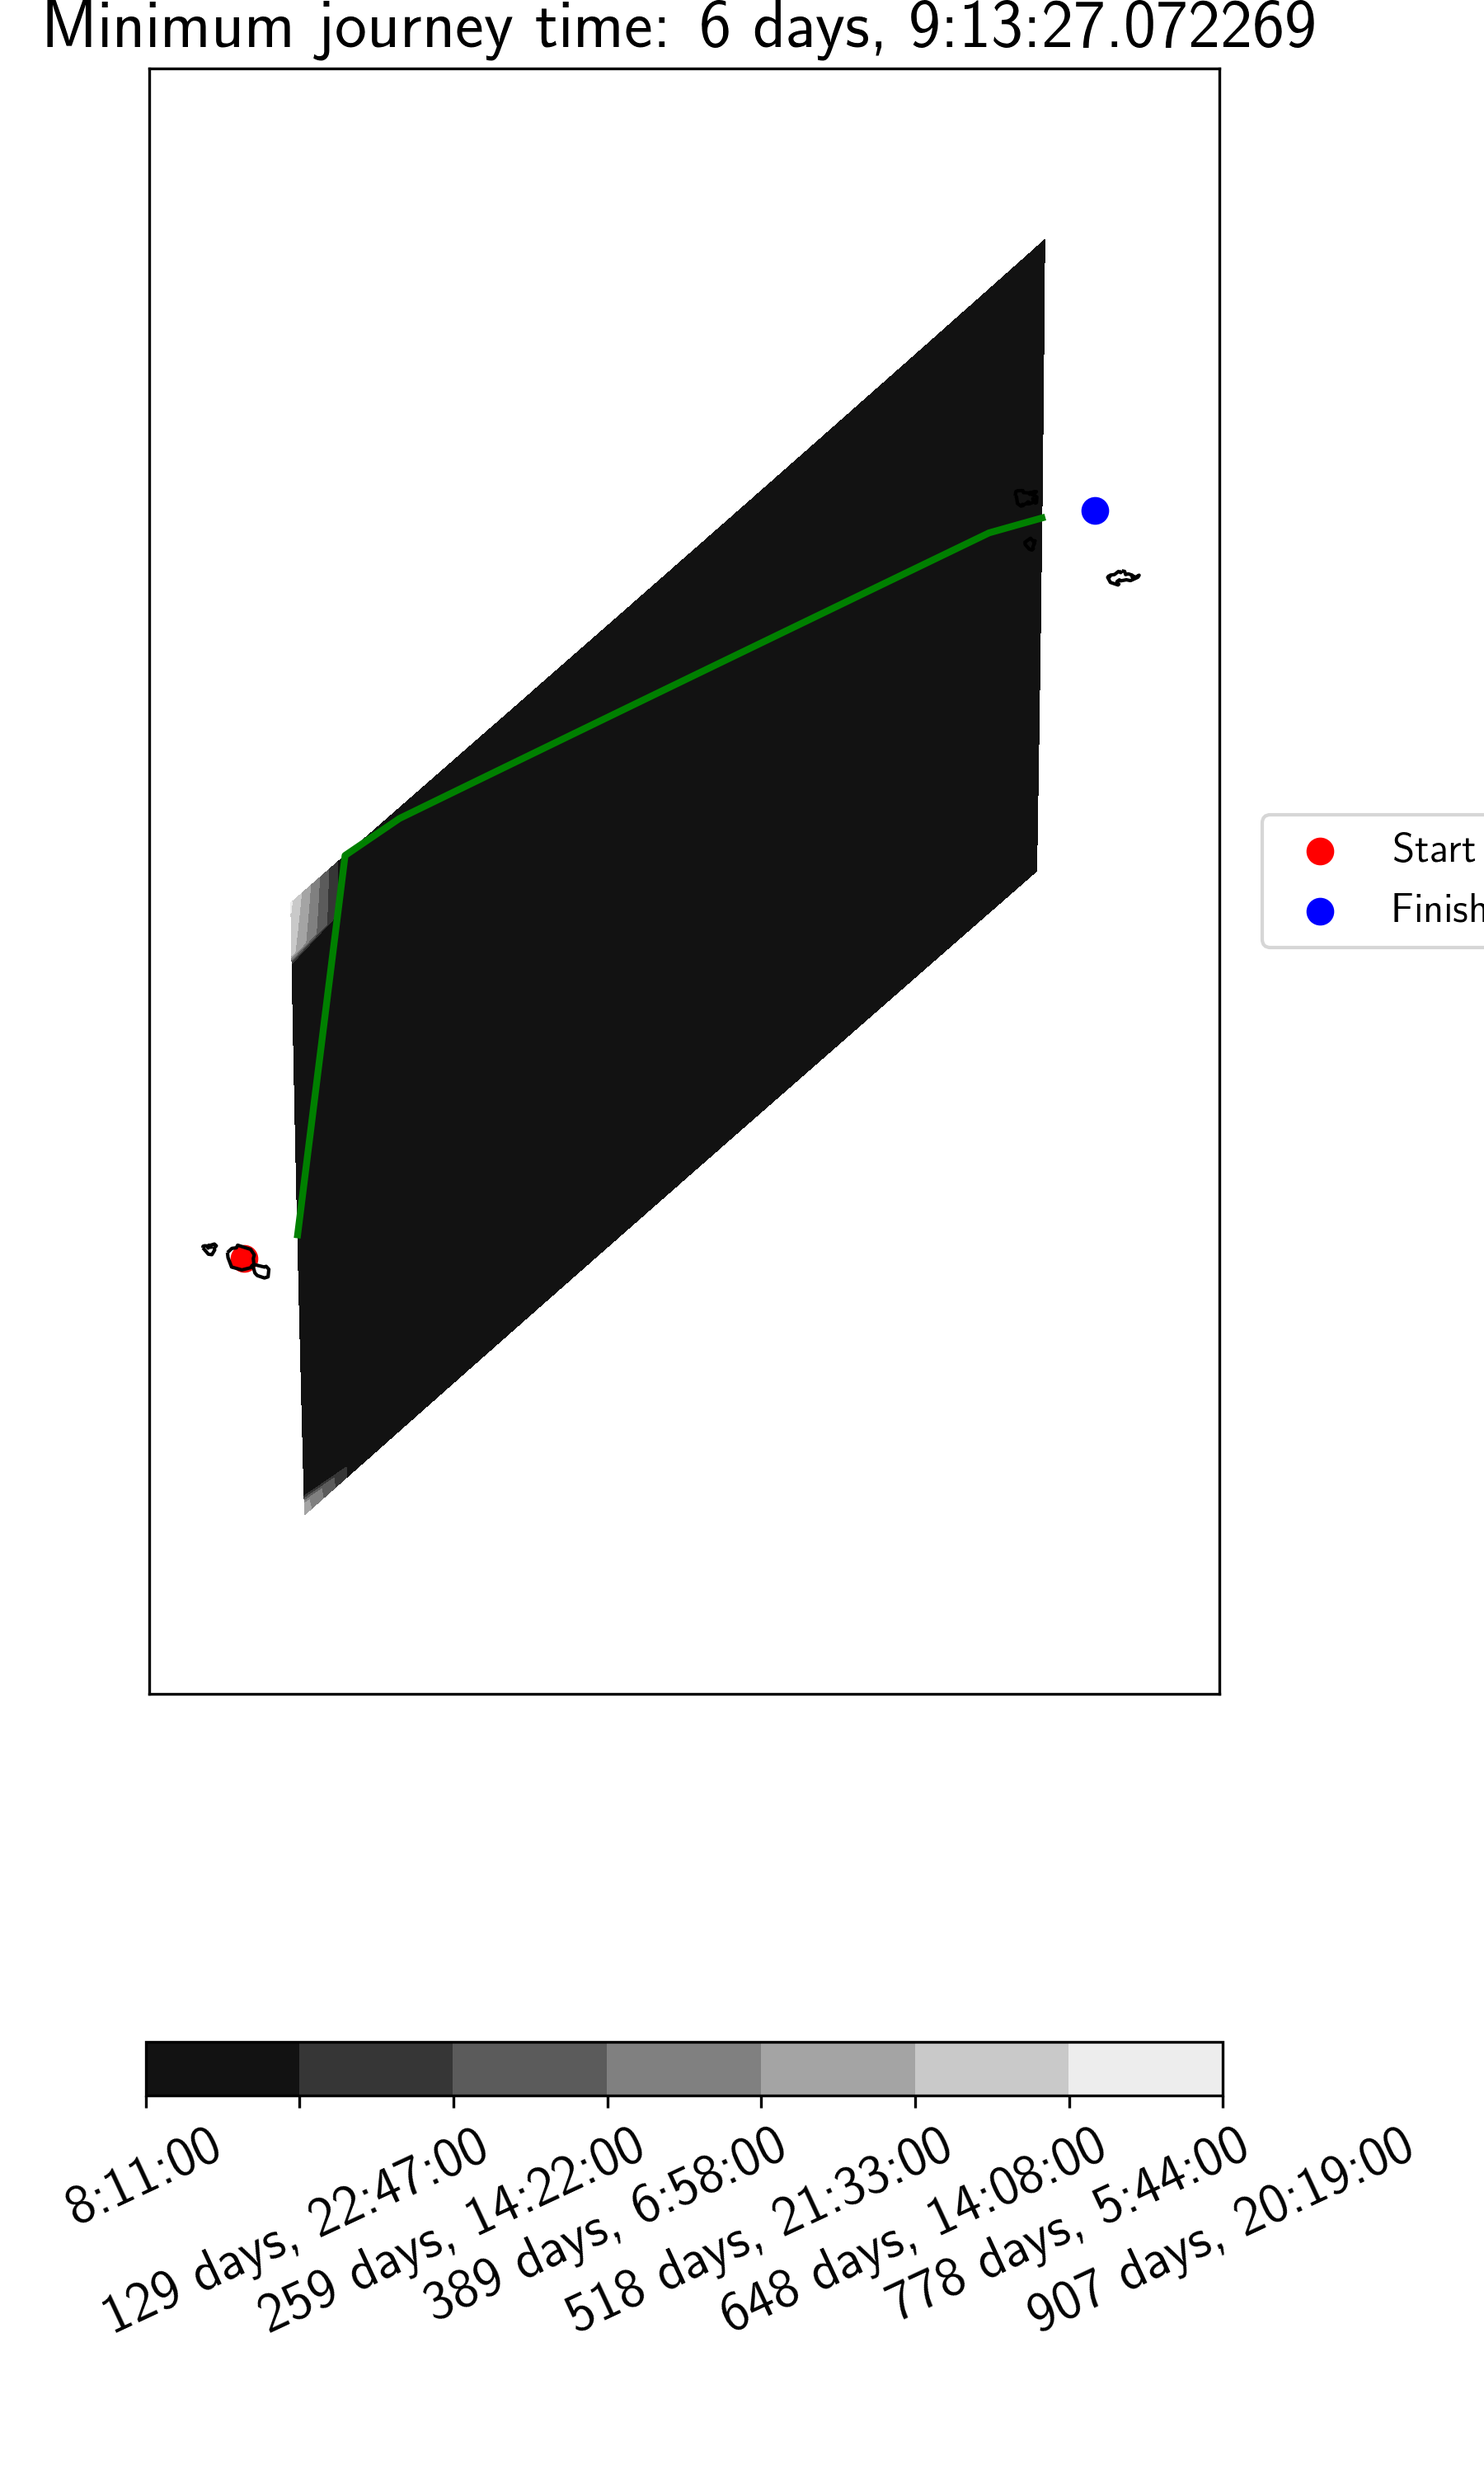
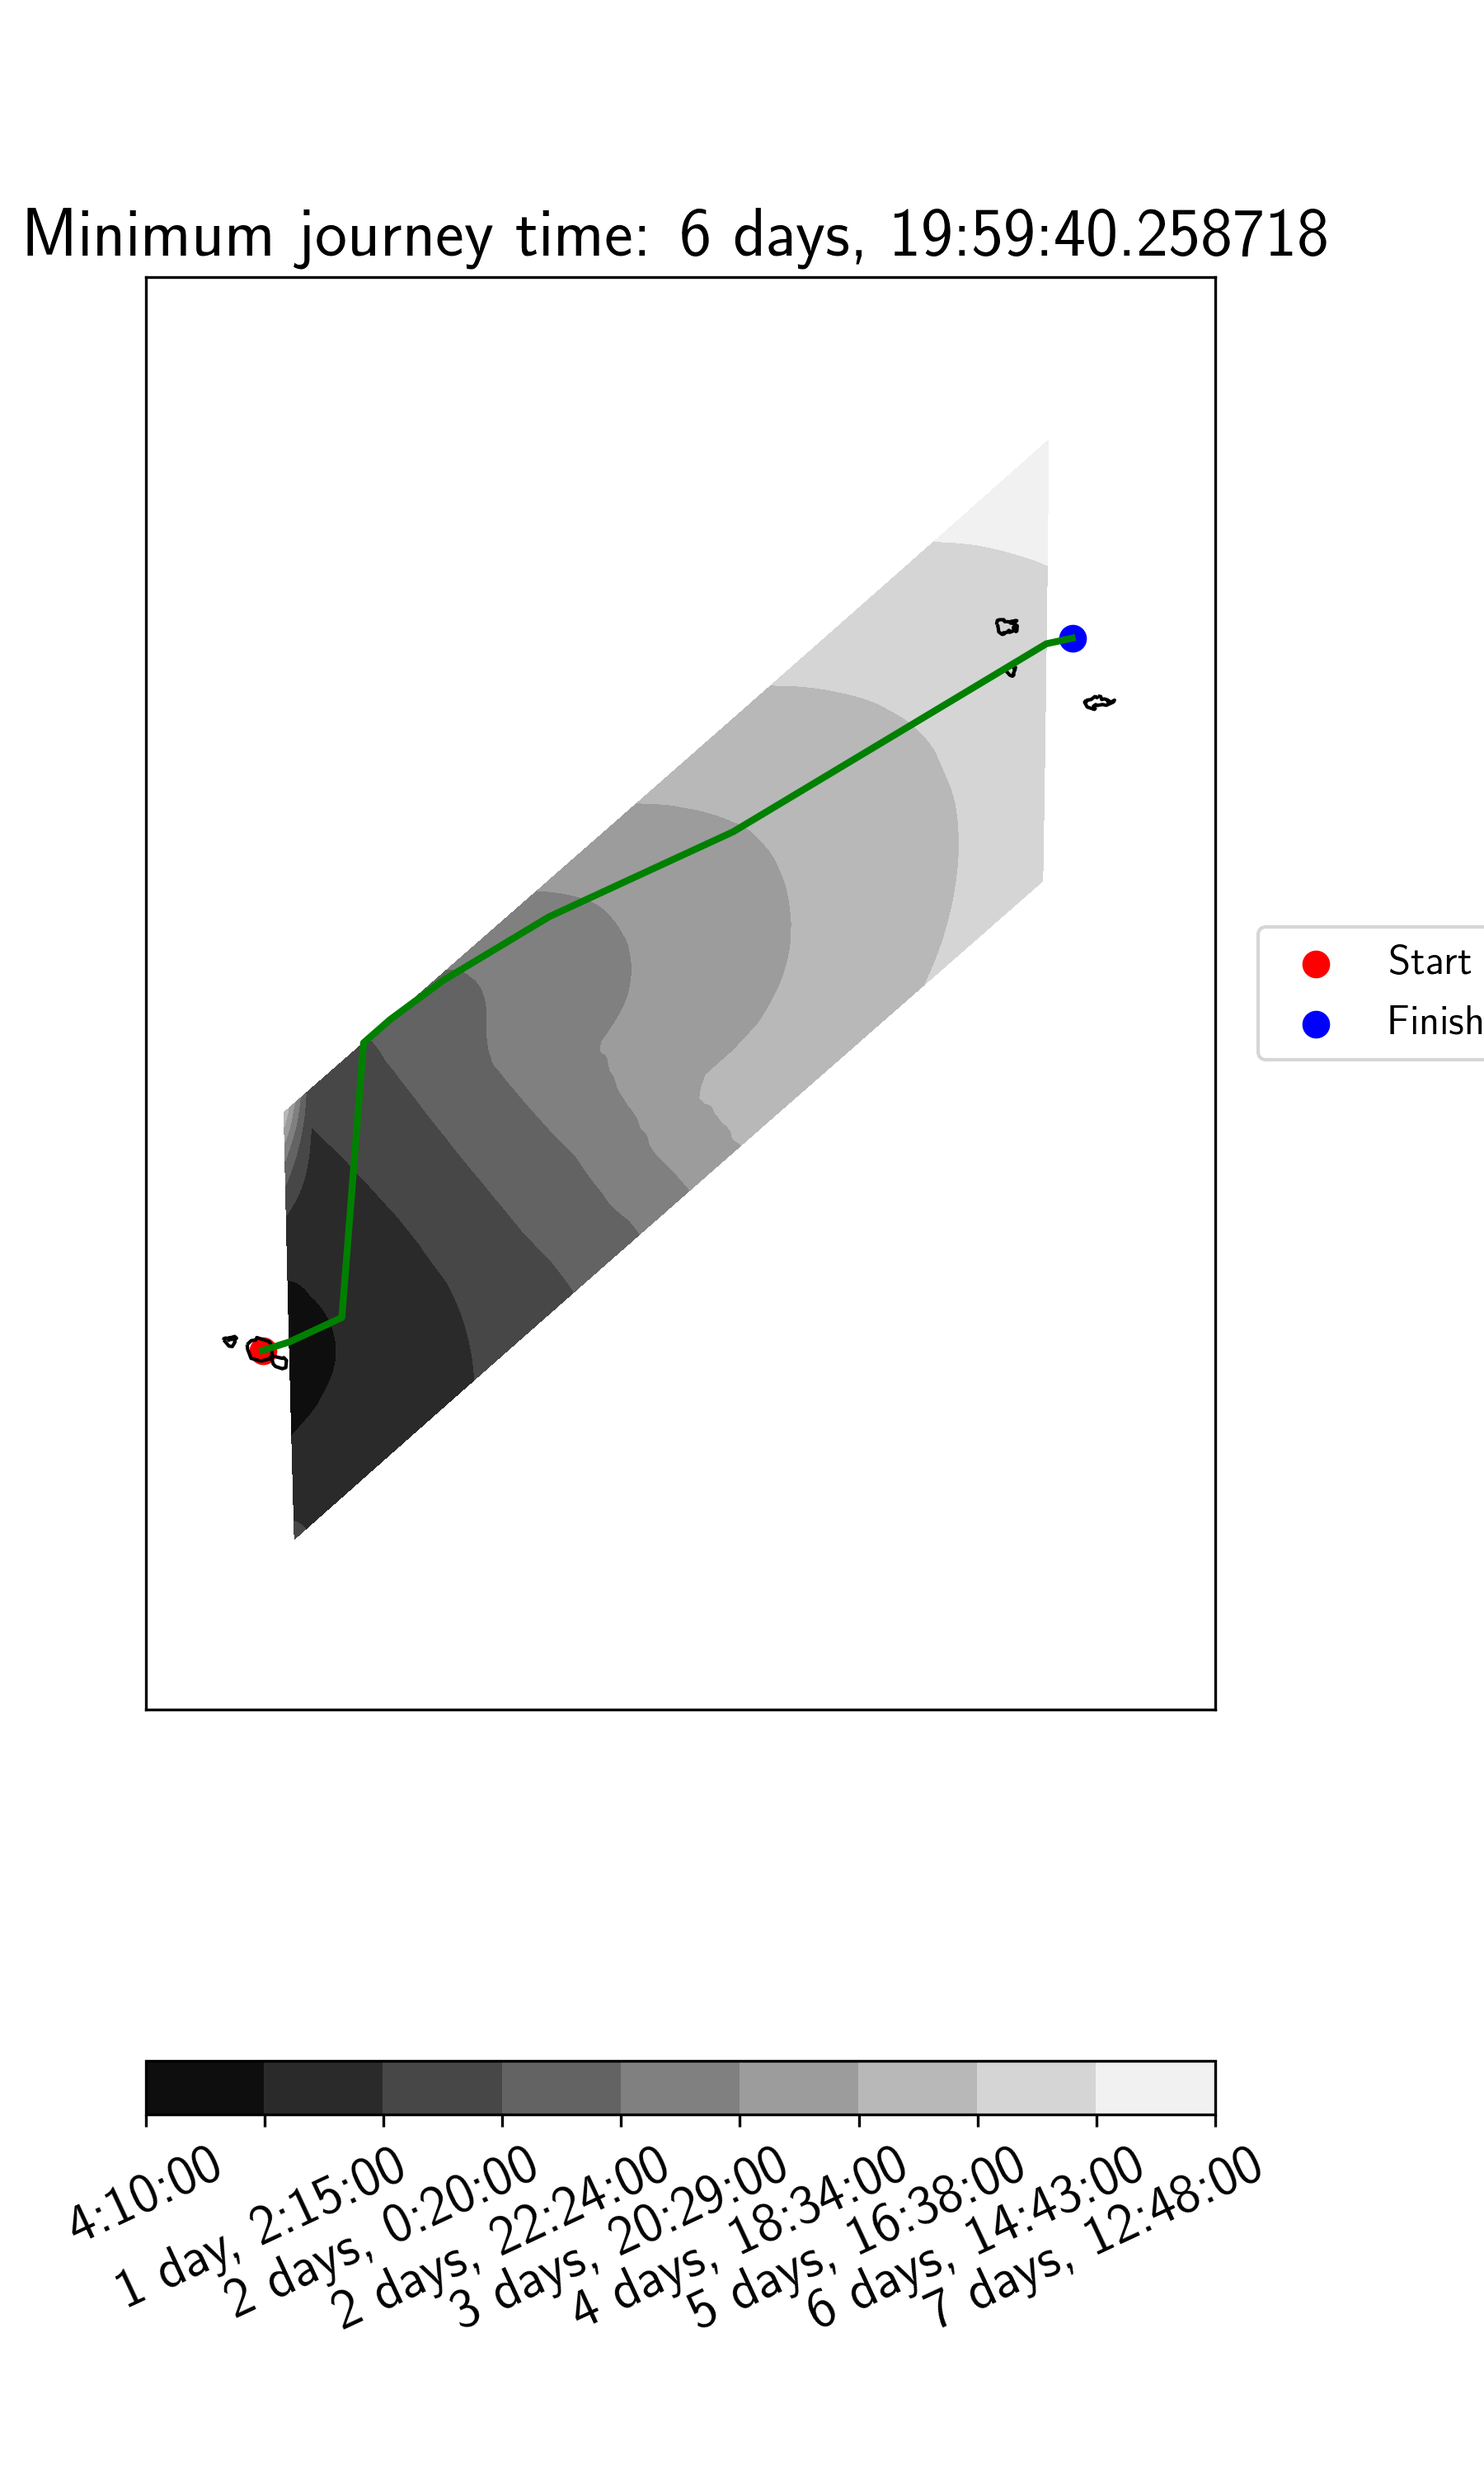
create utils for canoe voyaging

diff --git a/analysis/canoe_voyaging.py b/analysis/canoe_voyaging.py
@@ -6,63 +6,31 @@ thomas.dickson@soton.ac.uk
 """
 from context import sail_route
 import numpy as np
-from datetime import datetime, timedelta
-from sail_route.weather.weather_assistance import plot_wind_data, \
-                                                  generate_gif, \
-                                                  return_domain
+from datetime import datetime
+from canoe_voyaging_util import datetime_range, load_tongiaki_perf
+from sail_route.weather.weather_assistance import return_domain
 from sail_route.sail_routing import Location, Route, \
                                    min_time_calculate, plot_mt_route, \
                                    plot_reliability_route
-from sail_route.performance.craft_performance import polar
 from sail_route.performance.cost_function import haversine
 from sail_route.route.grid_locations import return_co_ords
-from sail_route.route.solve_route import shortest_path
 from grid_error import calc_h
 
 
-def datetime_range(start, end, delta):
-    """Generate range of dates."""
-    current = start
-    if not isinstance(delta, timedelta):
-        delta = timedelta(**delta)
-    while current < end:
-        yield current
-        current += delta
-
-
-def plot_wind():
-    """Plot representative wind scenario."""
-    path = "/home/thomas/Documents/pyroute/analysis/poly_data/data_dir/"
-    plot_wind_data(path, path+"/wind_forecast.nc")
-    generate_gif(path, "Polynesian_July")
-
-
-def load_tongiaki_perf():
-    """Load predicted Tongiaki voyaging canoe performance."""
-    pyroute_path = "/home/thomas/Documents/pyroute/"
-    path = pyroute_path + "analysis/poly_data"
-    perf = np.genfromtxt(pyroute_path+"/analysis/poly_data/data_dir/tongiaki_vpp.csv", delimiter=",")
-    tws = np.array([4, 5, 6, 7, 8, 9, 10, 12, 14, 16, 20])
-    twa = np.array([0, 60, 70, 80, 90, 100, 110, 120])
-    return polar(twa, tws, perf, 0.0)
-
-
 def run_simulation_over_days():
-    "Begin routing simulations"
-    "Start: Tahiti"
-    "Finish: Marquesas"
-    "Tongiaki vpp performance"
+    """Run routing simulations between tahiti and marquesas."""
     tahiti = Location(-149.426, -17.651)
     marquesas = Location(-139.33, -9)
     craft = load_tongiaki_perf()
-    n_nodes = 20
+    n_nodes = 30
     n_width = n_nodes*4
     print("Nodes in rank: ", n_nodes)
     print("Nodes in width: ", n_width)
     dist, bearing = haversine(tahiti.long, tahiti.lat, marquesas.long,
                               marquesas.lat)
-    node_distance = 750*dist/n_width
-    print("Node distance is ", node_distance, " m")
+    node_distance = 550*dist/n_width
+    print("Node height distance is ", dist*1000, " m")
+    print("Node width distance is ", node_distance, " m")
     r = Route(tahiti, marquesas, n_nodes, n_width,
               node_distance, craft)
     pyroute_path = "/home/thomas/Documents/pyroute/"
@@ -70,7 +38,7 @@ def run_simulation_over_days():
     waves_fname = pyroute_path + "analysis/poly_data/data_dir/wave_data.nc"
     dia_path = pyroute_path + "analysis/poly_data"
     sd = datetime(2000, 7, 1, 0, 0)
-    ed = datetime(2000, 7, 2, 0, 0)
+    ed = datetime(2000, 7, 10, 0, 0)
     dt = [d for d in datetime_range(sd, ed, {'days': 1, 'hours': 0})]
     for t in dt:
         x, y, land = return_co_ords(r.start.long, r.finish.long,

diff --git a/sail_route/sail_routing.py b/sail_route/sail_routing.py
@@ -43,7 +43,7 @@ plt.rcParams['lines.linewidth'] = 2.0
 plt.rcParams['lines.markersize'] = 8
 plt.rcParams['legend.fontsize'] = 12
 plt.rcParams['text.usetex'] = True
-# plt.rcParams['font.family'] = "serif"
+plt.rcParams['font.family'] = "serif"
 plt.rcParams['font.serif'] = "cm"
 plt.rcParams['text.latex.preamble'] = """\\usepackage{subdepth},
                                          \\usepackage{type1cm}"""
@@ -73,11 +73,11 @@ class Route:
 
 @timefunc
 def min_time_calculate(route, time, craft, x, y,
-                       land, tws, twd, wd, wh, wp):
+                       land, tws, twd, wd, wh, wp, verb=True):
     """Calculate the earliest arrival time across co-ordinates."""
-    pf_vals = np.zeros_like(x)  # array to hold failure probability
-    earl_time = np.full_like(x, np.inf)  # array to hold earliest times
-    indxs, pindxs = gen_indx(x)  # array to hold indexes of each location
+    pf_vals = np.zeros_like(x)
+    earl_time = np.full_like(x, np.inf)
+    indxs, pindxs = gen_indx(x)
     tws_interp = setup_interpolator(tws)
     twd_interp = setup_interpolator(twd)
     wd_interp = setup_interpolator(wd)
@@ -141,13 +141,7 @@ def min_time_calculate(route, time, craft, x, y,
                             print(stop_r)
                             print("Routing failed. Go sailing another day.")
                             break
-
-    # print(x)
-    # print(y)
-    # print(earl_time)
-    # print(indxs)
-    # print(pindxs)
-    stop_r
+    stop_r = 0
     for i in range(route.n_width):
         time = datetime.fromtimestamp(earl_time[-1, i])
         i_tws = tws_interp([x[-1, i],
@@ -176,7 +170,14 @@ def min_time_calculate(route, time, craft, x, y,
                 break
     sp = shortest_path(indxs, pindxs, [end_node])
     x_route, y_route = get_locs(indxs, sp, x, y)
-    return journey_time, earl_time, pf_vals, x_route, y_route
+    x_route = np.hstack(([route.finish.long], x_route,
+                        [route.start.long]))
+    y_route = np.hstack(([route.finish.lat], y_route,
+                        [route.start.lat]))
+    if verb is True:
+        return journey_time, earl_time, pf_vals, x_route, y_route
+    else:
+        return journey_time, x_route, y_route
 
 
 def min_vals(x, y, et):

diff --git a/analysis/canoe_voyaging_utils.py b/analysis/canoe_voyaging_utils.py
@@ -1,0 +1,36 @@
+"""Utilities used in Canoe voyaging simulations.
+
+Thomas Dickson
+thomas.dickson@soton.ac.uk
+15/05/2018
+"""
+from datetime import timedelta
+from context import sail_route
+from sail_route.weather.weather_assistance import plot_wind_data, generate_gif
+from sail_route.performance.craft_performance import polar
+
+
+def datetime_range(start, end, delta):
+    """Generate range of dates."""
+    current = start
+    if not isinstance(delta, timedelta):
+        delta = timedelta(**delta)
+    while current < end:
+        yield current
+        current += delta
+
+
+def plot_wind():
+    """Plot representative wind scenario."""
+    path = "/home/thomas/Documents/pyroute/analysis/poly_data/data_dir/"
+    plot_wind_data(path, path+"/wind_forecast.nc")
+    generate_gif(path, "Polynesian_July")
+
+
+def load_tongiaki_perf():
+    """Load predicted Tongiaki voyaging canoe performance."""
+    pyroute_path = "/home/thomas/Documents/pyroute/"
+    perf = np.genfromtxt(pyroute_path+"/analysis/poly_data/data_dir/tongiaki_vpp.csv", delimiter=",")
+    tws = np.array([4, 5, 6, 7, 8, 9, 10, 12, 14, 16, 20])
+    twa = np.array([0, 60, 70, 80, 90, 100, 110, 120])
+    return polar(twa, tws, perf, 0.0)

diff --git a/sail_route/performance/craft_performance.py b/sail_route/performance/craft_performance.py
@@ -5,8 +5,8 @@ thomas.dickson@soton.ac.uk
 24/04/2018
 """
 import numpy as np
-from scipy.interpolate import interp2d, RectBivariateSpline
-from numba import jit, jitclass, float64
+from scipy.interpolate import interp2d
+from numba import jit
 
 
 def get_perf():
@@ -18,12 +18,20 @@ def get_perf():
 class polar(object):
     """Store and return information on sailing craft polars."""
 
-    def __init__(self, tws_range, twa_range, perf, unc=0.0):
-        """Initialise sailing craft performance data."""
+    def __init__(self, tws_range, twa_range, perf, unc=0.0, apf=1.0):
+        """Initialise sailing craft performance data.
+
+        twa_range, numpy array containing true wind angle values
+        tws_range, numpy array containing true wind speed values
+        perf, scalar changing performance deterministically
+        unc, scalar associating uncertainty with craft
+        apf, scalar between 0.0 and 1.0 returning the acceptable probability of failure of the craft.
+        """
         self.twa_range = twa_range
         self.tws_range = tws_range
         self.perf = perf
         self.unc = unc
+        self.apf = apf
 
     @jit(cache=True)
     def return_perf(self, tws, twa):

diff --git a/sail_route/performance/cost_function.py b/sail_route/performance/cost_function.py
@@ -63,10 +63,9 @@ def cost_function(x1, y1, x2, y2, tws, twd, i_wd, i_wh, i_wp,
     #     pf = craft_failure_model(lifetime, tws, twa)
     # else:
     pf = 0.0
-    if (speed < 0.2) | (twa < 30):
+    if (speed < 0.2) | (twa < 30) | (pf > craft.accept_pf):
         # print(twa, " ", tws, " ", speed)
         stop_r += 1
-        # return datetime.timedelta(hours=np.float64(dist/0.01)), pf
         return np.inf, pf
     else:
         return datetime.timedelta(hours=np.float64(dist/speed)), pf

diff --git a/sail_route/route/solve_route.py b/sail_route/route/solve_route.py
@@ -11,7 +11,7 @@ import numpy as np
 from numba import jit
 
 
-@jit
+@jit(cache=True)
 def shortest_path(indx, pindx, sp):
     """Create a list of the nodes visited on the shortest path."""
     ix = np.argwhere(indx == sp[-1])
@@ -32,4 +32,4 @@ def get_locs(indx, sp, x_locs, y_locs):
         i, j = np.where(indx == k)
         X.append(x_locs[i, j].view())
         Y.append(y_locs[i, j].view())
-    return X, Y
+    return np.array(X).flatten(), np.array(Y).flatten()
